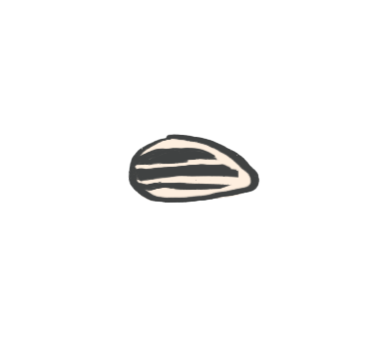
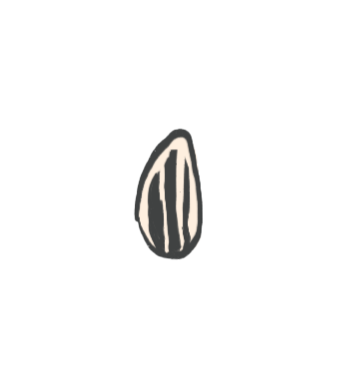
add bullet img

Changed region(s): [[0.3152, 0.3152, 0.6877, 0.6877]]

diff --git a/pyg-hamu/demo.py b/pyg-hamu/demo.py
@@ -49,12 +49,12 @@ class Item:
         self.x = x
         self.y = y
         self.type = item_type
-        self.radius = 10
+        self.radius = 30
         # self.color = PINK if item_type == ItemType.HEART else GREEN
         self.heart_image = pygame.image.load('pyg-hamu/img/heart.png')
-        self.heart_image = pygame.transform.scale(self.heart_image, (self.radius, self.radius))
+        self.heart_image = pygame.transform.scale(self.heart_image, (self.radius*0.8, self.radius*0.8))
         self.shield_image = pygame.image.load('pyg-hamu/img/shield.png')
-        self.shield_image = pygame.transform.scale(self.image, (self.radius, self.radius))
+        self.shield_image = pygame.transform.scale(self.shield_image, (self.radius*0.8, self.radius))
     def draw(self):
         # pygame.draw.circle(screen, self.color, (int(self.x), int(self.y)), self.radius)
         if self.type == ItemType.HEART:
@@ -169,15 +169,26 @@ class Bullet:
         distance = math.sqrt(dx**2 + dy**2)
         self.dx = (dx/distance) if distance != 0 else 0
         self.dy = (dy/distance) if distance != 0 else 0
+        self.angle = math.atan2(dy, dx)
+        # self.angle = math.atan2(target_y - start_y, target_x - start_x)
         self.speed = 7
-        self.radius = 5
+        self.radius = 50
+        self.sprite = pygame.image.load('pyg-hamu/img/bullet.png')
+        self.image_rect = self.sprite.get_rect(center=(self.x, self.y ))
+        self.sprite = pygame.transform.scale(self.sprite, (self.radius, self.radius*1.5))
+        # self.sprite = pygame.transform.rotate(self.sprite, 90)
 
     def move(self):
         self.x += self.dx * self.speed
         self.y += self.dy * self.speed
 
-    def draw(self):
-        pygame.draw.circle(screen, WHITE, (int(self.x), int(self.y)), self.radius)
+    def draw(self, enemy_x, enemy_y):
+        angle = math.atan2(enemy_y - self.y, enemy_x - self.x)
+        rotated_image = pygame.transform.rotate(self.sprite, math.degrees(self.angle))
+        rect = rotated_image.get_rect(center=(int(self.x), int(self.y)))
+        screen.blit(rotated_image, rect)
+         # pygame.draw.circle(screen, WHITE, (int(self.x), int(self.y)), self.radius)
+
 
 def find_nearest_enemy(player: Player, enemies: List[Enemy]) -> Tuple[float, float]:
     if not enemies:
@@ -238,6 +249,7 @@ def main():
                 bullet.y < 0 or bullet.y > WINDOW_HEIGHT):
                 bullets.remove(bullet)
 
+
         # 更新敵人位置和碰撞檢測
         for enemy in enemies[:]:
             enemy.move(player.x, player.y)
@@ -288,7 +300,8 @@ def main():
         for enemy in enemies:
             enemy.draw()
         for bullet in bullets:
-            bullet.draw()
+            target_x, target_y = find_nearest_enemy(player, enemies)
+            bullet.draw(target_x, target_y)
         for item in items:
             item.draw()
 
